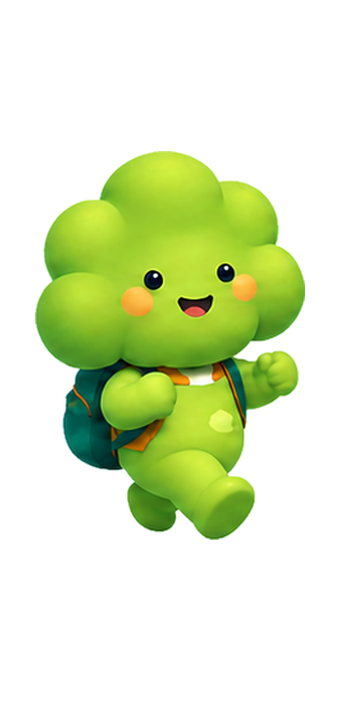
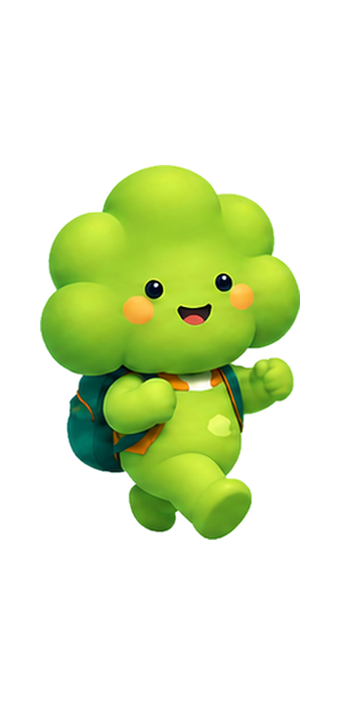
fix: normalize and densify mascot animation poses

diff --git a/src/integration/ui/styles.css b/src/integration/ui/styles.css
@@ -520,12 +520,12 @@ button { color: inherit; }
   display: block;
   background: url('/assets/canopy-ui/journey-start-animation-sprite.png') 0 center / auto 100% no-repeat;
   filter: drop-shadow(0 6px 7px rgba(16, 64, 43, .12));
-  animation: startSprite 4.8s steps(24, end) infinite;
+  animation: startSprite 4.8s steps(32, end) infinite;
   will-change: background-position;
 }
 @keyframes startSprite {
   from { background-position: 0 center; }
-  to { background-position: -4075.5px center; }
+  to { background-position: -5434px center; }
 }
 .start-character-fallback { display: none; position: absolute; inset: 0; }
 .start-character .character-frame {
